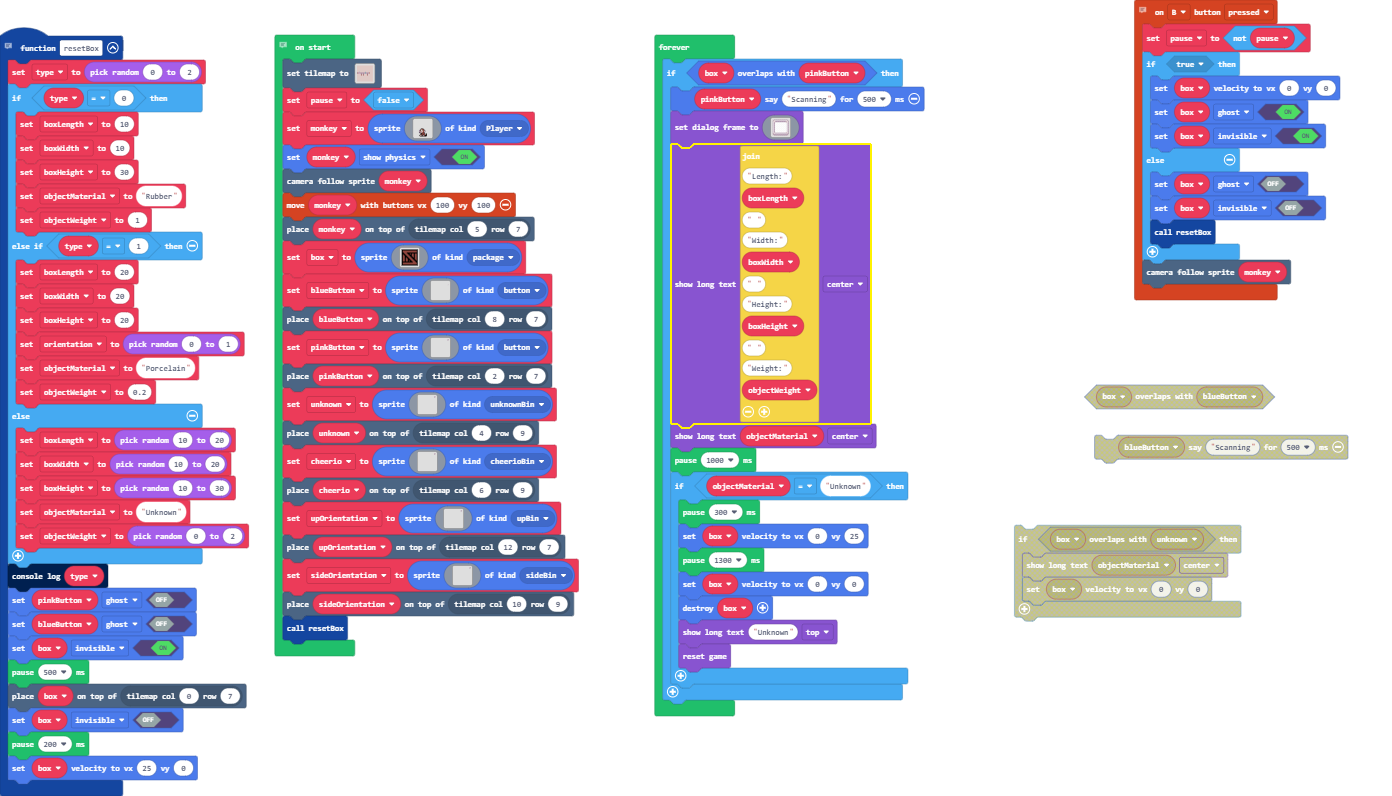
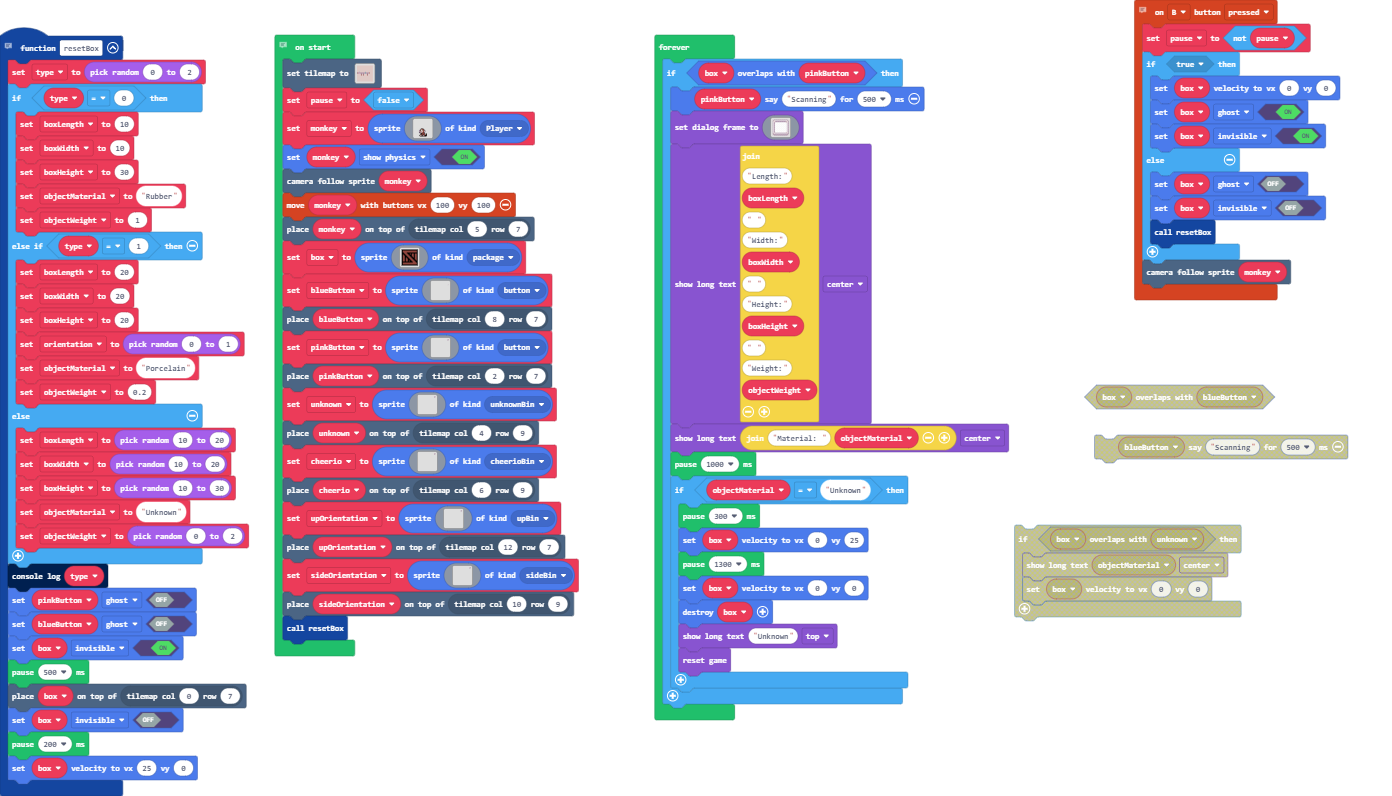
Update main.blocks, main.ts

Changed region(s): [[0.4634, 0.5126, 0.7414, 0.9045], [0.8649, 0.4824, 0.8958, 0.5126]]

diff --git a/main.ts b/main.ts
@@ -296,7 +296,7 @@ forever(function () {
             ..bbbbbbbbbbbbbbbbbbbb..
             `)
         game.showLongText("Length:" + boxLength + " " + "Width:" + boxWidth + " " + "Height:" + boxHeight + " " + "Weight:" + objectWeight, DialogLayout.Center)
-        game.showLongText(objectMaterial, DialogLayout.Center)
+        game.showLongText("Material: " + objectMaterial, DialogLayout.Center)
         pause(1000)
         if (objectMaterial == "Unknown") {
             pause(300)
